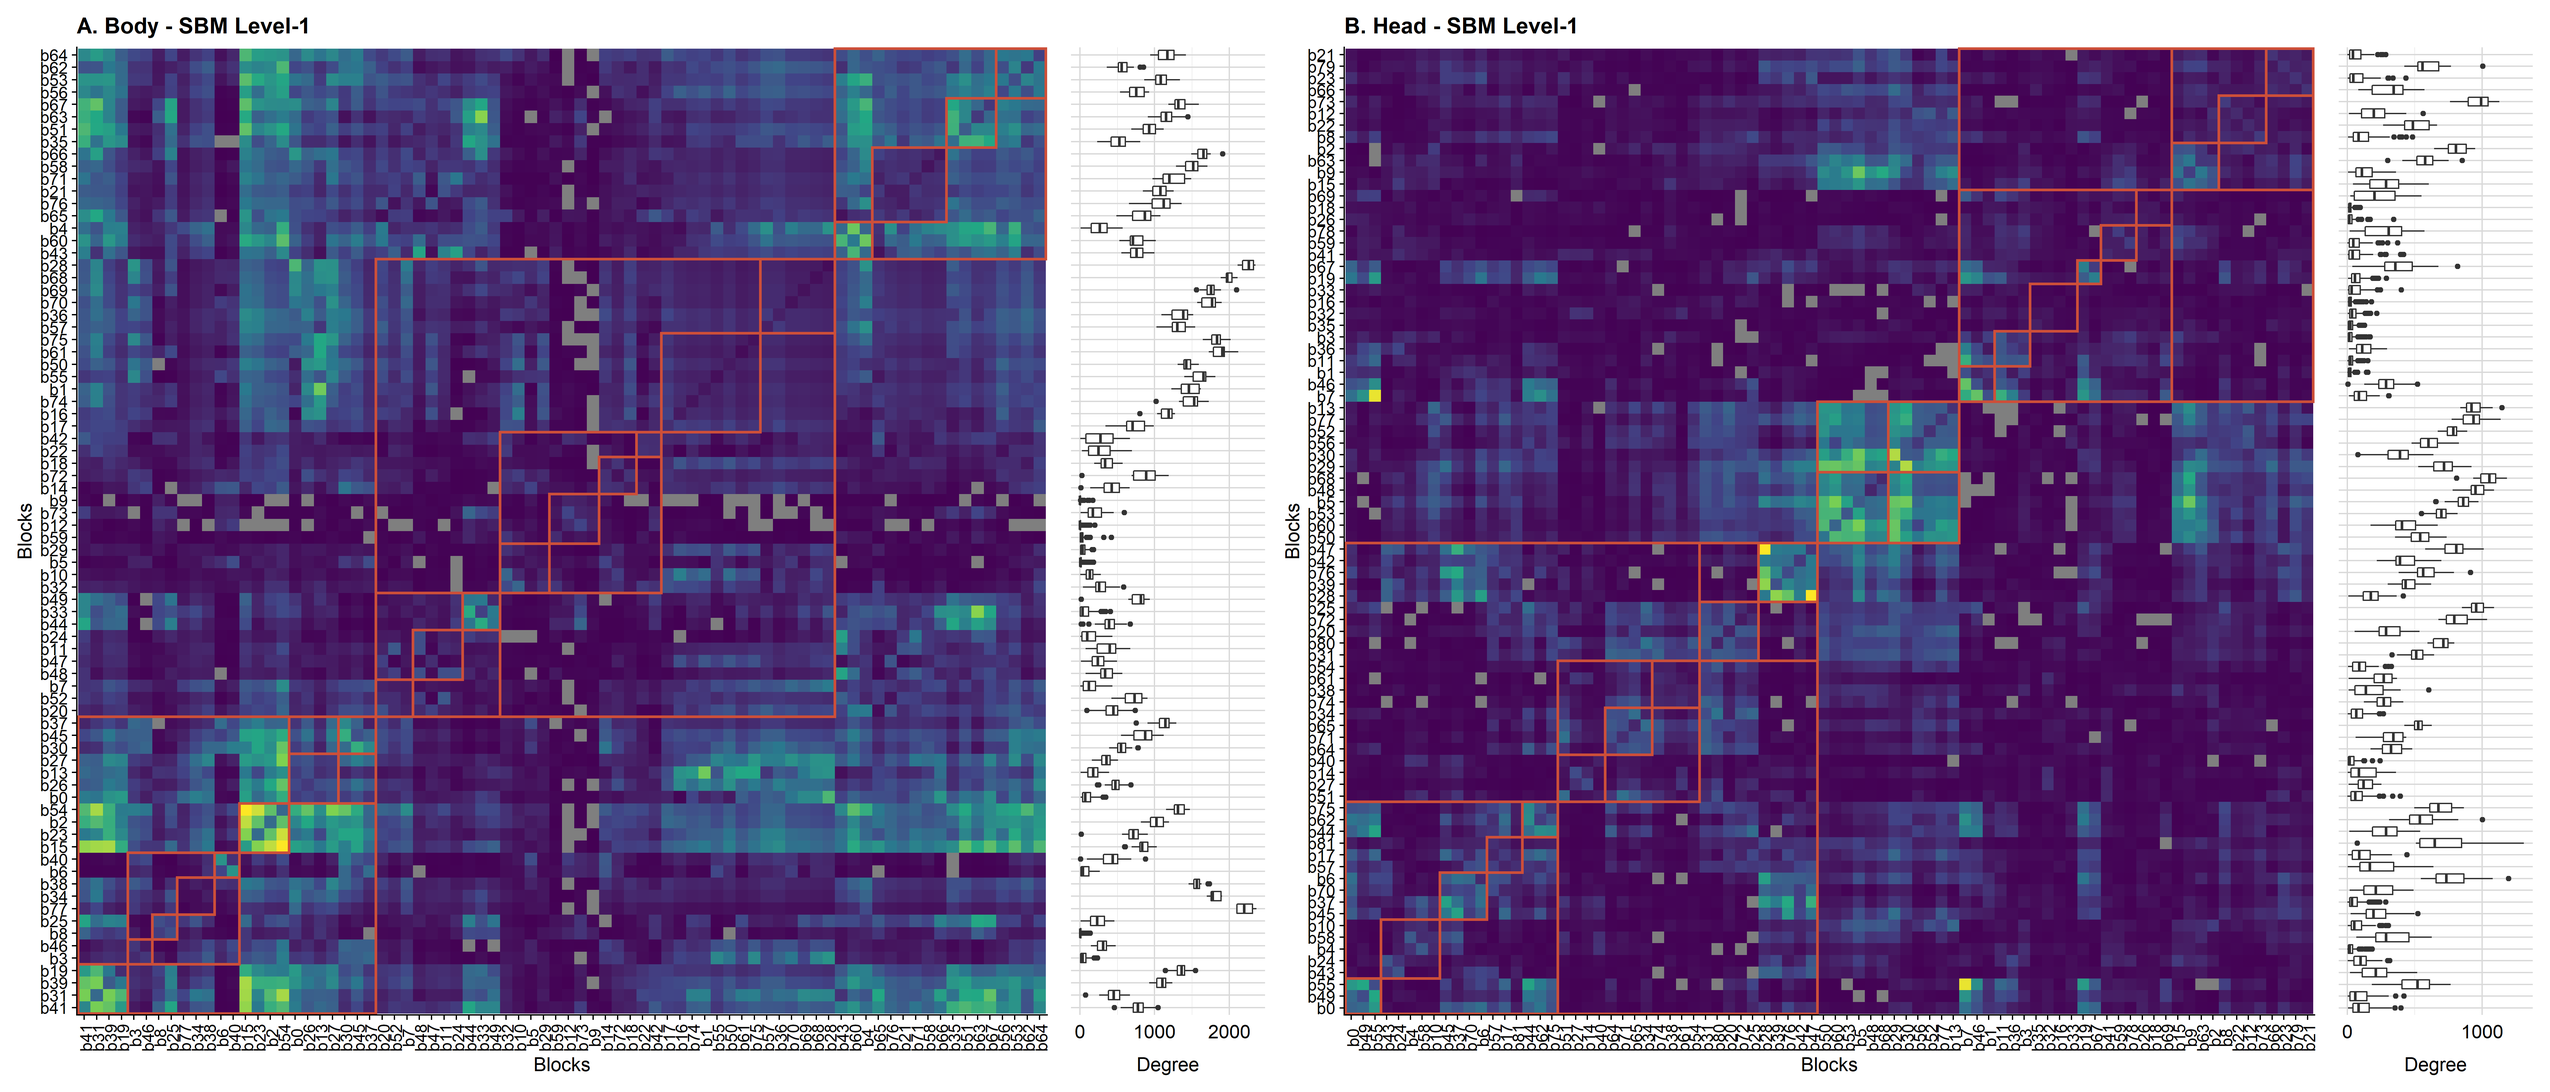
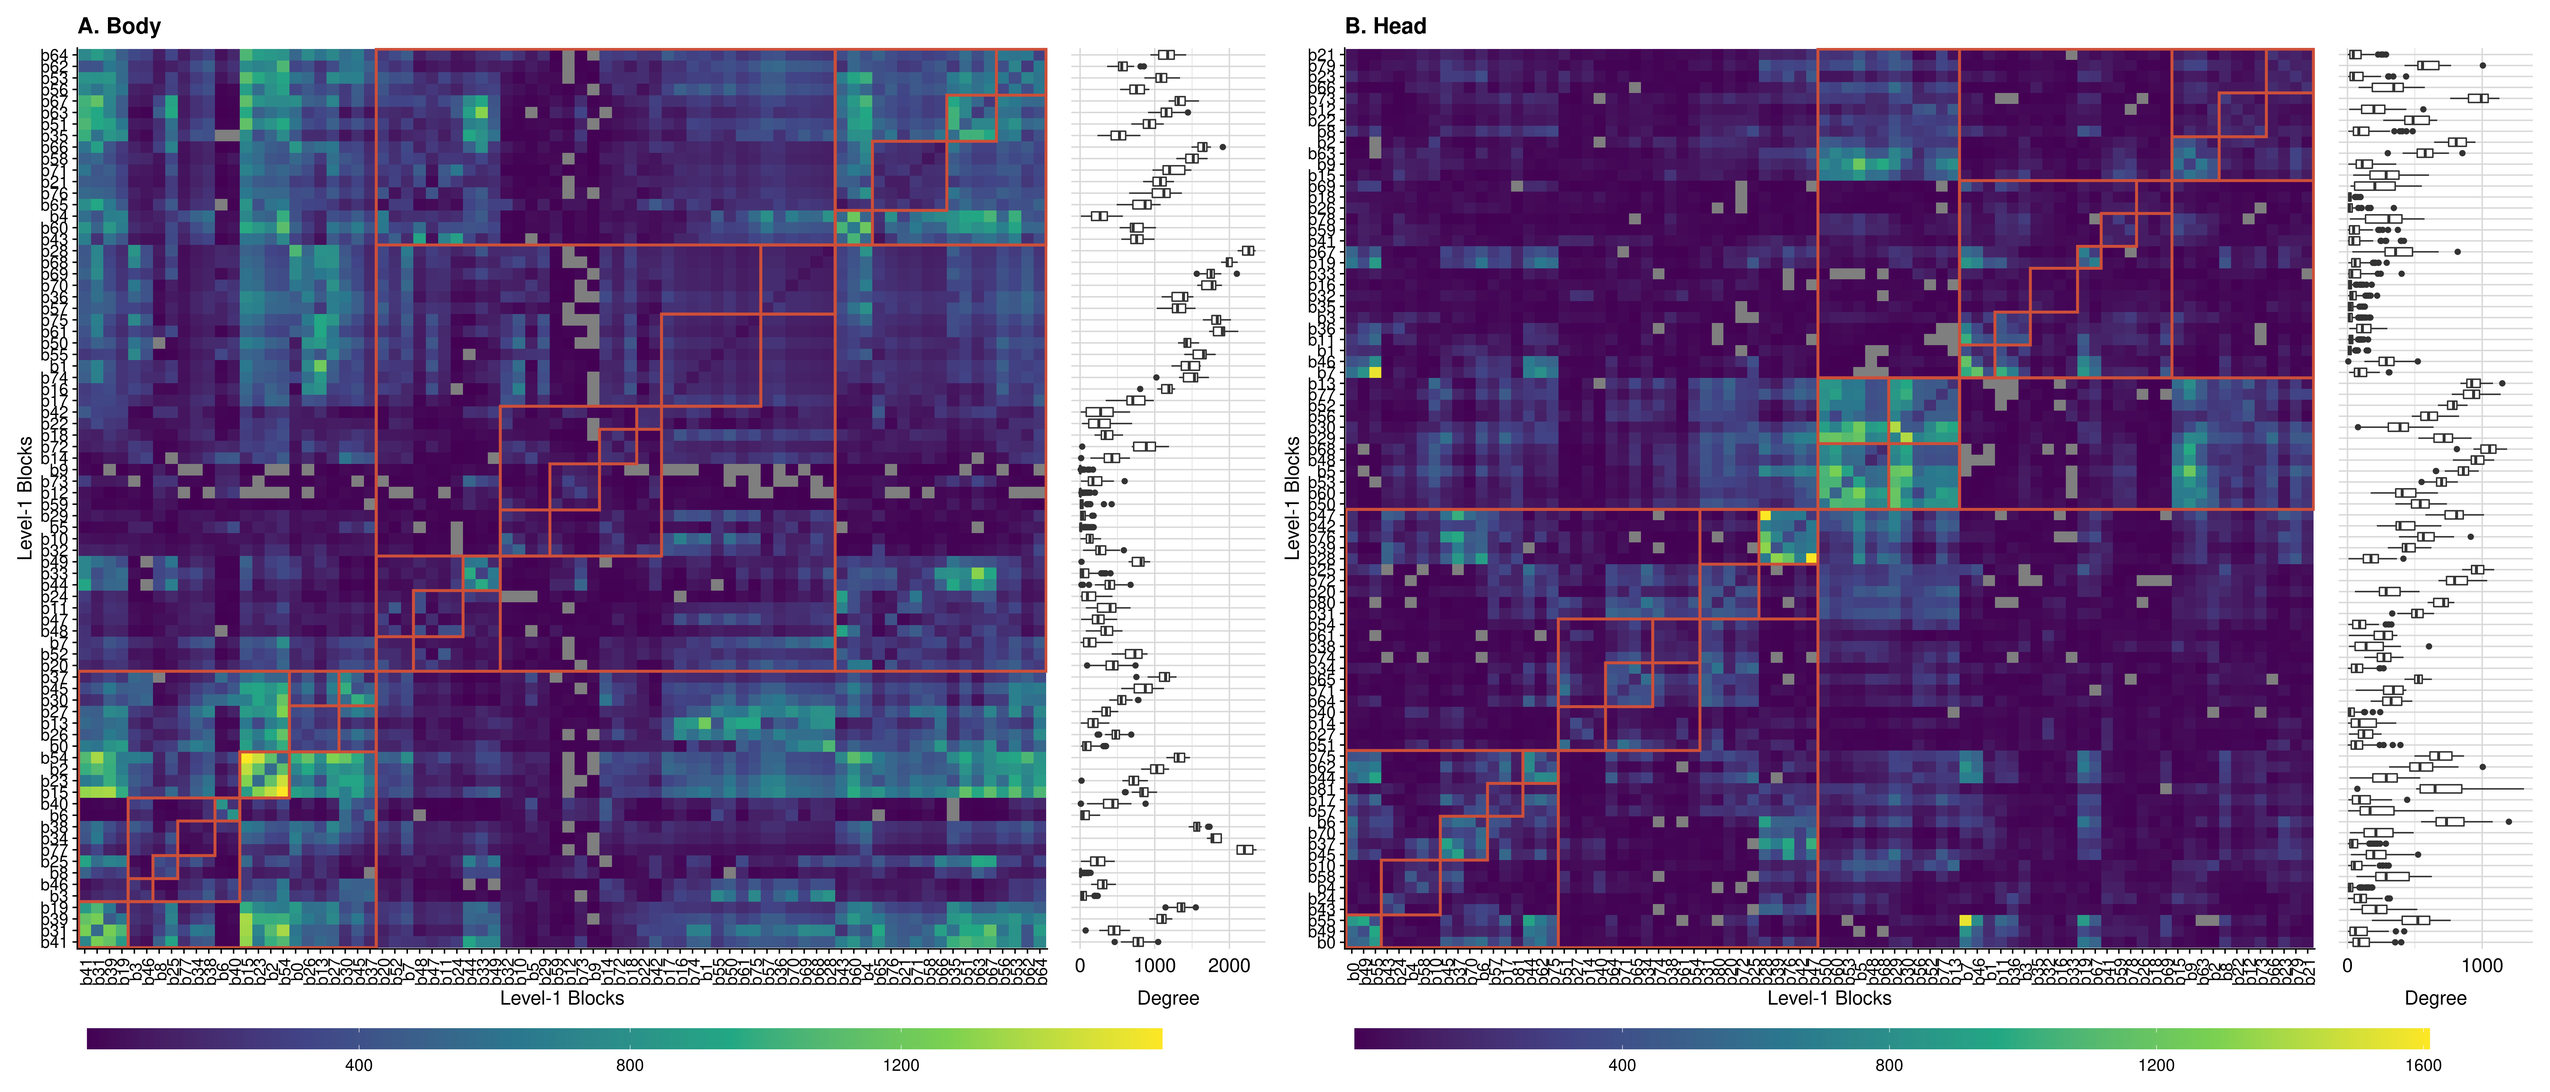
more luisa changes

diff --git a/main.md b/main.md
@@ -74,7 +74,7 @@ We measure gene expression using RNASeq in a large, outbred population of _D. Me
 
 ## Gene co-expression network
 
-Using the gene expression measures for both tissues we generate co-expression network graphs. In theory, we could proceed using a full network in which all pairs of genes are connected but fitting the SBM with this fully connected graph is computationally too expensive. So, to reduce the connectivity of the network, we impose a stringent Benjamini-Hochberg false discovery rate (FDR) cut-off on the edges, removing edges with a large p-value associated with the correlation between the corresponding genes. As edges are removed, some genes with only non-significant correlations become disconnected from the rest of the network and can be removed. By gradually reducing the FDR threshold, we reduce the density of the gene network while attempting to keep as many genes as possible, until we arrive at a viable set of genes and connections with which to fit the SBM. After some experimentation, we decided that an FDR of 1% for the head and 0.1% for the body kept most of the genes (head:5261, body:5124) and reduced the graph density to a manageable level for use in the SBM. This set of genes is used in all the different clustering methods. 
+Using the gene expression measures for both tissues we generate co-expression network graphs. In theory, we could proceed using a full network in which all pairs of genes are connected but fitting the SBM with this fully connected graph is computationally too expensive. So, to reduce the connectivity of the network, we impose a stringent Benjamini-Hochberg false discovery rate (FDR) cut-off on the edges, removing edges with a large p-value associated with the correlation between the corresponding genes. As edges are removed, some genes with only non-significant correlations become disconnected from the rest of the network and can be removed. By gradually reducing the FDR threshold, we reduce the density of the gene network while attempting to keep as many genes as possible, until we arrive at a viable set of genes and connections with which to fit the SBM. We chose an FDR of 1% for the head and 0.1% for the body datasets which kept most of the genes (94.2% in the head:5261, and 92.6% in the body:5124) while reducing the graph density to a manageable level for use in the SBM. This set of genes is used in the three clustering methods compared in this study: WGCNA, MMC, and SBM. 
 
 ## Edge weights
 
@@ -102,17 +102,17 @@ $$
 
 Where $\Sigma = -log[P(A|\theta, b)] - log[P(\theta,b)]$ is called the description length of the gene network $A$, and has an information-theoretic interpretation, being the amount of information required to encode the network given $\theta$ and $b$. So, finding the partition that maximizes the posterior probability is the same as minimizing the description length, or, in other words, the chosen partition $b$ is the one that allows us to describe the network using the least information. 
 
-The two terms in $\Sigma$ also allow us to understand why this method offers intrinsic protection against overfitting. The first term $log[P(A|\theta, b)]$ corresponds to the log-likelihood of the observed network. Increasing the number of blocks allows this likelihood to increase as the degrees of freedom of the model increase. But, the second term, $log[P(\theta,b)]$ functions as a penalty that increases for complex models with many blocks, and the description length cannot decrease for overly complex models that have more blocks than warranted by the data. So, the selected partition with the minimum description length will necessarily be the simplest partition with similar explanatory power, avoiding overfitting and fully using the available statistical evidence. For example, the SBM would not detect modules that appear in random networks due to statistical fluctuations, in contrast to modularity maximation, which finds spurious modules in random networks [@Guimera2004-jq; @Zhang2020-up]. We can also use the description length as a principled method for comparing models that simultaneously considers fit to data and model complexity.
+The two terms in $\Sigma$ also allow us to understand why this method offers intrinsic protection against overfitting. The first term $log[P(A|\theta, b)]$ corresponds to the log-likelihood of the observed network. Increasing the number of blocks allows this likelihood to increase as the degrees of freedom of the model increase. But, the second term, $log[P(\theta,b)]$ functions as a penalty that increases for complex models with many blocks, and the description length cannot decrease for overly complex models that have more blocks than warranted by the data. So, the selected partition with the minimum description length will necessarily be the simplest partition with similar explanatory power, avoiding overfitting and fully using the available statistical evidence. For example, the SBM would not detect modules that appear in random networks due to statistical fluctuations, in contrast to modularity maximization, which finds spurious modules in random networks [@Guimera2004-jq; @Zhang2020-up]. We can also use the description length as a principled method for comparing models that simultaneously considers fit to data and model complexity.
 
 ### Weighted SBM
 
-The weights on the edges can be modeled in the SBM using several different distributions. When using correlations, which are continuous numbers that vary between -1 and 1, it is natural to use some transformation to map the correlations onto the real numbers. To do this, we use arctanh transformed correlations as the edge weights and model these weights using normal distributions. In the SBM, the weights are modeled in much the same way as the links between networks, in that the mean and the variance of the observed edge weights between two blocks are a function only of the block structure, i.e., genes in the same block have a similar probability of being connected to other genes and the value of the weights in these edges come from the same distribution.
+The weights on the edges can be modeled in the SBM using different distributions depending on the edge weights. When edge weights are correlations, which are continuous numbers that vary between -1 and 1, it is natural to use some transformation to map the correlations onto the real numbers. To do this, we use arctanh transformed correlations as the edge weights and model these weights using normal distributions. In the SBM, the weights are modeled in much the same way as the links between networks, in that the mean and the variance of the observed edge weights between two blocks are a function only of the block structure, i.e., genes in the same block have a similar probability of being connected to other genes and the value of the weights in these edges comes from the same distribution.
 
 ### Nested SBM
 
-The nested SBM uses a series of non-parametric hierarchical priors that greatly increase the resolution of block partition. This nested structure allows for the identification of more and smaller blocks that are statistically supported than other clustering methods [@Peixoto2017-zw]. This is achieved by treating the gene block partition as the nodes in a nested series of networks, which are then clustered using the same method. So, the genes are clustered in blocks, and these blocks are also clustered in higher-level blocks, and so on, as required to minimize the description length of the gene network (see diagram in @fig:SBM_diagram). The model estimates the number of levels in the hierarchy and the number of blocks in each level. Since the model is generative, we can use posterior samples of the partitions to quantify the uncertainty in any quantity estimated by the model, like the number of levels in the hierarchy, or the number of blocks at each level. For details on the implementation of the SBM, see [@Peixoto2017-zw] and [@Peixoto2018-or]. All SBM were fit using the graph-tool python library [@peixoto_graph-tool_2014]. 
+The nested SBM uses a series of non-parametric hierarchical priors that greatly increase the resolution of block partition. This nested structure allows for the identification of more and smaller blocks that are statistically supported than other clustering methods [@Peixoto2017-zw]. This is achieved by treating the gene block partition as the nodes in a nested series of networks, which are then clustered using the same method. So, the genes are clustered in blocks, and these blocks are also clustered in higher-level blocks, and so on, as required to minimize the description length of the gene network (see diagram in @fig:SBM_diagram). The model estimates the number of levels in the hierarchy and the number of blocks in each level. Since the model is generative, we can use posterior samples of the partitions to quantify the uncertainty in any quantity estimated by the model, like the number of levels in the hierarchy, or the number of blocks at each level. For details on the implementation of the SBM, see [@Peixoto2017-zw] and [@Peixoto2018-or]. All SBM were fitted using the graph-tool python library [@peixoto_graph-tool_2014]. 
 
-![Schematic representation of the clustering in the SBM. Genes are clustered into level-1 blocks, level-1 blocks are clustered into level-2 blocks, and so on.](figures/SBM_diagram.png){#fig:SBM_diagram}
+![Schematic representation of the clustering in the SBM. Genes are clustered into level-1 blocks, level-1 blocks are clustered into level-2 blocks, and so on.](figures/SBM_diagram.png){#fig:SBM_diagram height=10cm}
 
 ### Modularity and Assortativity
 
@@ -144,9 +144,9 @@ We assess the biological relevance of the clustering obtained by each method by 
 
 Gene clustering for all methods is presented in Supporting Information Table S1. Using the SBM, in both head and body, we were able to cluster all genes, identifying a nested partition with 5 levels, with 2 blocks at level 5 (the coarsest), 3 blocks at level 4, 6 (head) and 9 (body) in level 3, 21 (head and body) at level 2, and 82 (head) and 78 (body) at level 1. The block structure inferred by the SBM is shown in @fig:Emats. In what follows, when discussing specific SBM blocks, we either explicitly define which level of the nested hierarchy we are referring to or give the full path to a given block. So, level-1 block 12 in the head can also be referred to as 12-7-2-2-1, and level-2 block 10 in the body is also 10-1-2-1. 
 
-![A and B: SBM Level 1 blocks colored by their weighted connectivity, within and between blocks. The upper levels of the nested hierarchy are shown by the red lines. C and D: A full representation of the fitted block model. Genes are shown at the perimeter, colored by their level 2 blocks. The internal graph shows the hierarchical structure of the fitted SBM. A subsample of 30.000 edges is shown connecting the genes, and edges are colored according to their weights, with more positive weights plotted on top. External labels refer to a non-exhaustive subset of level-2 blocks with clear biological function inferred from interpreting GO enrichment.](figures/SBM_Ematrix.png){#fig:Emats}
+![Matrix and graph representations of the SBM clustering. A and B: SBM Level-1 blocks are colored by the number of edges within and between blocks. Gray squares represent pairs of unconnected blocks. The upper levels of the nested hierarchy are shown by the red lines. C and D: A full representation of the fitted block model. Genes are shown at the perimeter, colored by their level 2 blocks. The internal graph shows the hierarchical structure of the fitted SBM. Numbers in blue circles correspond to the level-2 block. Arrows between level-1 blocks and genes are omitted, unlike fig. 1. A subsample of 30.000 edges is shown connecting the genes, and edges are colored according to their weights, with more positive weights plotted on top. External labels refer to a non-exhaustive subset of level-2 blocks with clear biological function inferred from interpreting GO enrichment. Level-2 block 8 in the body, with the label highlighted in red, is the only level-2 block with no GO enrichment.](figures/SBM_Ematrix.png){#fig:Emats}
 
-WGCNA partitioned 2118 genes (~40% of genes) into 7 modules in the body and 1600 genes (~30% of genes) into 7 in the head. WGCNA did not cluster 3006 genes in the body and 3661 in the head. Given that the number of modules in WGCNA is similar to the number of blocks at level 3 of the SBM, we compare these two partitions in @fig:wgcna_compare. Overall, the partitions are different, but there are some common patterns. For example, Level-3 blocks 0, 2, 5, and 6 in the body are split between modules 3 and 4, and these blocks are all in the same Level-4 block 0, suggesting some similarity that could explain the WGCNA clustering. Blocks 7 and 9 are both fully assigned to module 2. Also in the body genes, we find a similar pattern for Level-3 blocks 1, 3, and 4, which are mostly split between modules 1 and 2. In the head, Level-3 block 4 is all assigned to modules 1 and 3. Level-3 blocks 1 and 2 are mostly split between modules 1 and 3, and both are in Level-4 block 2. So, while the clustering is different, WGCNA and the SBM do capture some common signals.
+WGCNA partitioned 2118 genes (~40% of genes) into 7 modules in the body and 1600 genes (~30% of genes) into 7 modules in the head. WGCNA did not cluster 3006 genes in the body and 3661 in the head. Given that the number of modules in WGCNA is similar to the number of blocks at level 3 of the SBM, we compare these two partitions in @fig:wgcna_compare. Overall, the partitions are different, but there are some common patterns. For example, Level-3 blocks 0, 2, 5, and 6 in the body are split between modules 3 and 4, and these blocks are all in the same Level-4 block 0, suggesting some similarity that could explain the WGCNA clustering. Blocks 7 and 9 are both fully assigned to module 2. Also in the body genes, we find a similar pattern for Level-3 blocks 1, 3, and 4, which are mostly split between modules 1 and 2. In the head, Level-3 block 4 is all assigned to modules 1 and 3. Level-3 blocks 1 and 2 are mostly split between modules 1 and 3, and both are in Level-4 block 2. So, while the clustering is different, WGCNA and the SBM do capture some common signals.
 
 MMC failed to cluster most genes, placing almost all genes into the same large module. Given this poor performance on our data, we do not discuss MMC further and instead focus on comparing SBM to WGCNA.
 
@@ -157,7 +157,7 @@ MMC failed to cluster most genes, placing almost all genes into the same large m
 Modularity and assortativity are markedly lower in the body (@fig:modularity). Several blocks in the body have negative assortativity, and the maximum value of modularity is 0.035 at level 4 of the nested hierarchy. Even so, several blocks show GO enrichment throughout the distribution of assortativity. In the head, modularity is overall higher, with a peak at 0.14 in level 3. This is still a relatively low value and illustrates how assuming the gene network should be modular can prevent us from finding an informative clustering. All but 5 blocks in the head show positive assortativity, and again GO enrichment is present throughout the assortativity range. 
 
 
-![Assortativity in the SBM level-1 blocks and modularity for all nested levels. GO enriched blocks are shown in yellow and appear throughout the distribution of assortativity. Modularity is much higher in the head, and it peaks at level 3, dropping in upper levels. Body has a much higher number of non-assortative blocks and lower modularity at all levels. Modularity peaks at level 4 in the body and drops strongly at level 5. Interestingly, the 4 most assortative blocks in the body do not show significant GO enrichment.](figures/assortativity.png){#fig:modularity}
+![Assortativity measured in the SBM level-1 blocks and Newman Modularity (average assortativity) for all levels of the SBM hierarchy. GO enriched blocks are shown in yellow and appear throughout the distribution of assortativity. Modularity is much higher in the head, and it peaks at level 3, dropping in upper levels. Body has a much higher number of non-assortative blocks and lower modularity at all levels. Modularity peaks at level 4 in the body and drops strongly at level 5. Interestingly, the 4 most assortative blocks in the body do not show significant GO enrichment.](figures/assortativity.png){#fig:modularity}
 
 ## Gene Ontology enrichment
 
@@ -170,7 +170,7 @@ Body         65\% (51/78)     95\% (20/21)     100\% (9/9)   100\% (3/3)   100\%
       
 Table: Number of blocks at each level of the SBM hierarchy that show significant GO enrichment at the 5\% FDR level with a minimum of 4 genes in the enriched set.
 
-![Enriched GO categories in a level-3 block in the head (0-0-0), related to neural signaling. Panels show the corresponding level-1 blocks. Bars correspond to the top 8 GO categories, the x-axis shows the number of genes associated with each term. The last panel shows the most similar WGCNA module, which also contains signaling-related genes, but at a lower resolution and fails to cluster the phototransduction genes, which are in module 5.](figures/000_go_map.png){#fig:go_map}
+![Enriched GO categories in a level-3 block in the head (0-0-0), related to neural signaling. Panels show the corresponding level-1 blocks. Bars correspond to the top 8 GO categories, the x-axis shows the number of genes associated with each term. The last panel shows the most similar WGCNA module, which also contains signaling-related genes, but at a lower resolution and fails to cluster the phototransduction genes, which are in module 5 (not shown).](figures/000_go_map.png){#fig:go_map}
 
 ### Notable individual clusters
 
